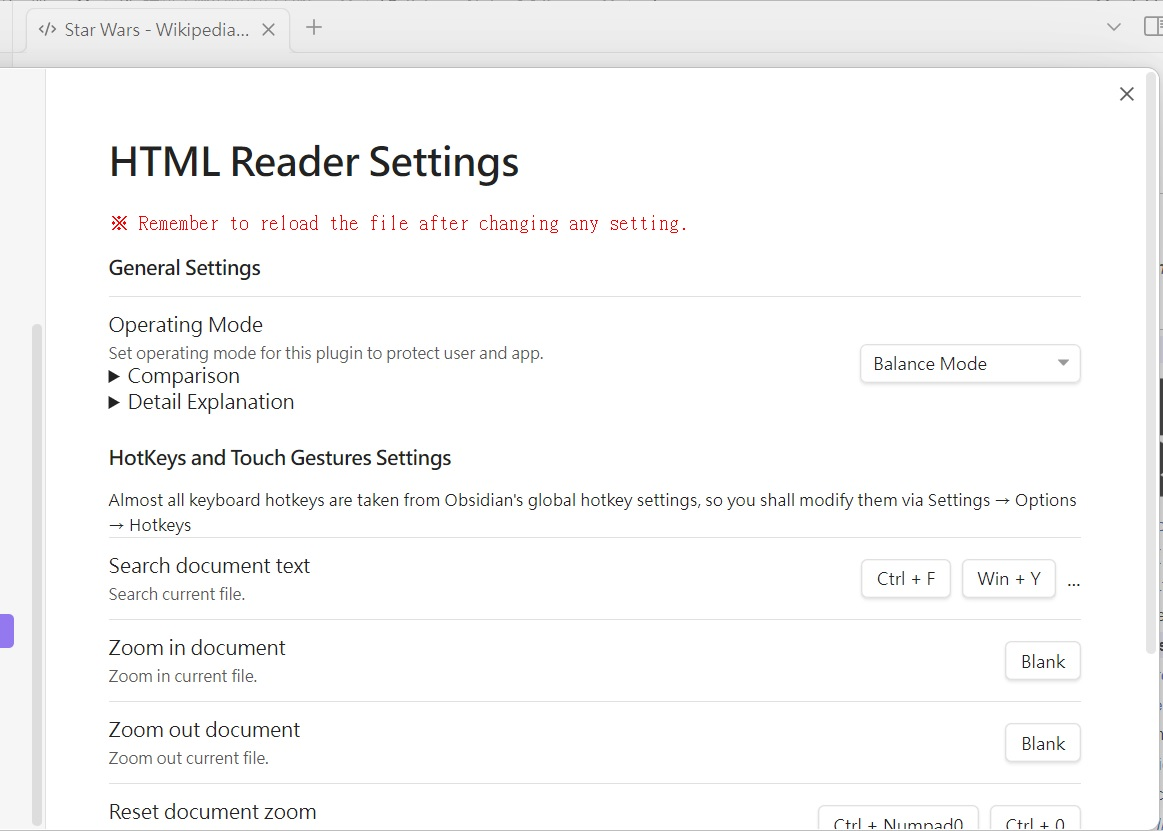
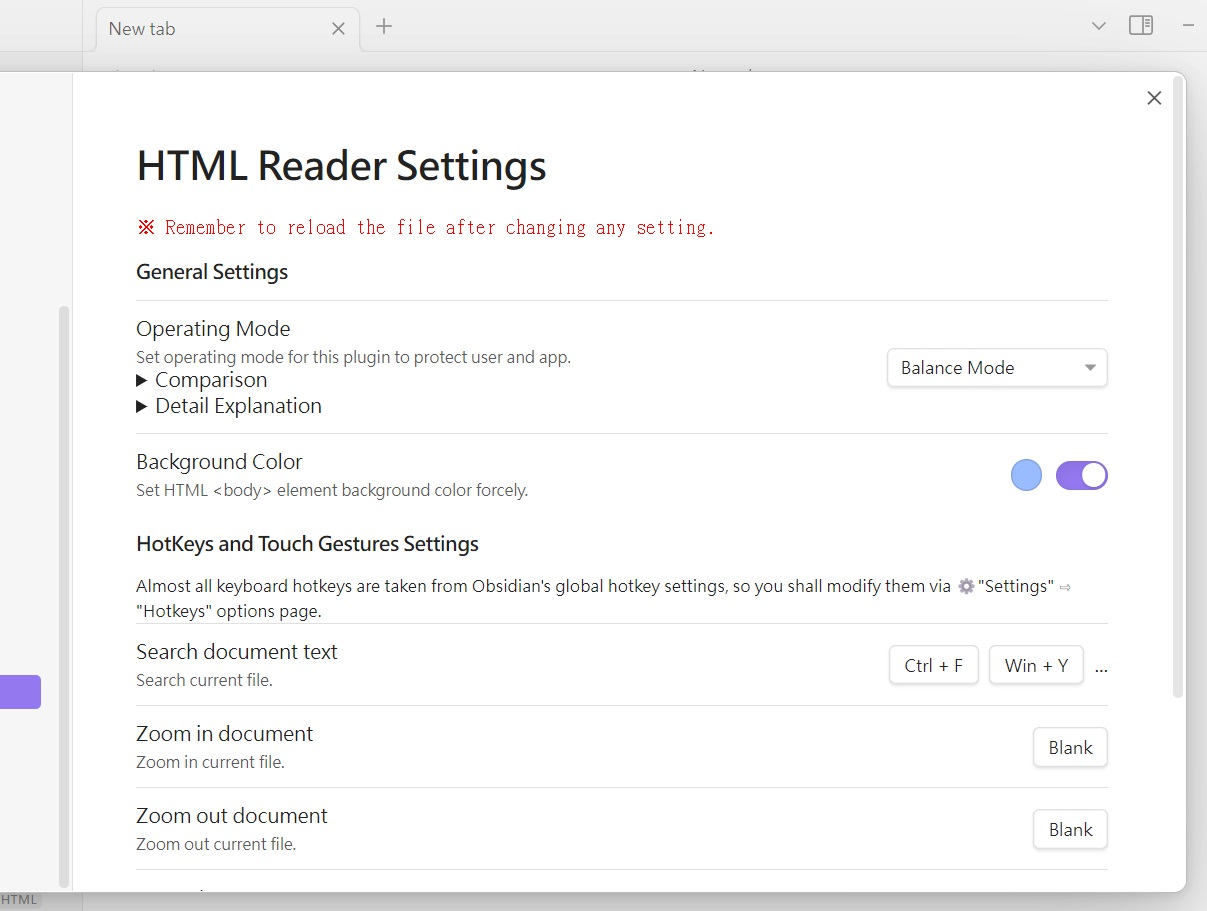
Version 1.0.10 1. Add set background color forcely option. (#12)

diff --git a/src/HtmlPluginSettings.ts b/src/HtmlPluginSettings.ts
@@ -3,12 +3,16 @@ import HtmlPlugin from "./HtmlPlugin";
 import { HtmlPluginOpMode, OP_MODE_INFO_DATA, OP_MODE_INFO_HTML } from "./HtmlPluginOpMode";
 
 export interface HtmlPluginSettings {
+	bgColorEnabled: boolean;
+	bgColor: string; // Hex strings are 6-digit hash-prefixed rgb strings in lowercase form.
 	opMode: HtmlPluginOpMode;
 	zoomByWheelAndGesture: boolean;
 	zoomValue: number;
 }
 
 export const DEFAULT_SETTINGS: HtmlPluginSettings = {
+	bgColorEnabled: false,
+	bgColor: "#ffffff",
 	opMode: HtmlPluginOpMode.Balance,
 	zoomByWheelAndGesture: true,
 	zoomValue: 1.0,
@@ -32,9 +36,10 @@ export class HtmlSettingTab extends PluginSettingTab {
 		containerEl.createEl('pre', { text: '※ Remember to reload the file after changing any setting.'})
 						.setAttribute('style', 'color:red');
 			
-		// ----- General Settings ----
+		// ----- General Settings -----
 		containerEl.createEl('h2', { text: 'General Settings' });
 
+		// ----- General Settings: Operating Mode -----
 		const opModeSetting = new Setting(containerEl);
 		opModeSetting
 			.setName("Operating Mode")
@@ -55,7 +60,29 @@ export class HtmlSettingTab extends PluginSettingTab {
 		
 		opModeSetting.infoEl.appendChild( this.opModeInfoFrag.cloneNode(true) );
 		
-		// ----- HotKeys and Touch Gestures Settings ----
+		// ----- General Settings: Background Color -----
+		const bgColorSetting = new Setting(containerEl);
+		bgColorSetting
+			.setName("Background Color")
+			.setDesc("Set HTML <body> element background color forcely.")
+			.addColorPicker((picker) => {
+				picker
+					.setValue(this.plugin.settings.bgColor)
+					.onChange( async (newColor: string) => {
+						this.plugin.settings.bgColor = newColor;
+						await this.plugin.saveSettings();
+					});
+			})
+			.addToggle( (toggle) => {
+				toggle
+					.setValue(this.plugin.settings.bgColorEnabled)
+					.onChange( async (enabled: boolean) => {
+						this.plugin.settings.bgColorEnabled = enabled;
+						await this.plugin.saveSettings();
+					});
+			});
+		
+		// ----- HotKeys and Touch Gestures Settings -----
 		containerEl.createEl('h2', { text: 'HotKeys and Touch Gestures Settings' });
 		containerEl.createEl('small', { text: `Almost all keyboard hotkeys are taken from Obsidian's global hotkey settings, so you shall modify them via ⚙"Settings" ⇨ "Hotkeys" options page.` });
 		
@@ -67,7 +94,7 @@ export class HtmlSettingTab extends PluginSettingTab {
 			.addToggle( (toggle) => {
 				toggle
 					.setValue(this.plugin.settings.zoomByWheelAndGesture)
-					.onChange( async (enabled) => {
+					.onChange( async (enabled: boolean) => {
 						this.plugin.settings.zoomByWheelAndGesture = enabled;
 						await this.plugin.saveSettings();
 					});

diff --git a/src/HtmlView.ts b/src/HtmlView.ts
@@ -371,6 +371,11 @@ async function modifyAnchorTarget( doc: HTMLDocument ): Promise<void> {
 async function restoreStateBySettings( doc: HTMLDocument, settings: HtmlPluginSettings ): Promise<void> {
 	doc.body.style.transformOrigin = "left top"; // CSS transform-origin
 	doc.body.style.transform = `scale(${settings.zoomValue})`;
+	
+	if( settings.bgColorEnabled ) {
+		doc.body.setAttribute( "bgColor", settings.bgColor );
+		doc.body.style.backgroundColor = settings.bgColor;
+	}
 }
 
 function isUnselectableElement( elm: HTMLElement ): boolean {
@@ -435,7 +440,7 @@ function checkHotkeyModifier( modifiers: Modifier[], evt: KeyboardEvent | MouseE
 				if( !evt.altKey ) // This key value is also used for the Apple Option key. 
 					return false;
 				break;
-			case 'Mod': // Mod = Cmd on MacOS(iOS?) and Ctrl on other OS
+			case 'Mod': // Mod = Cmd on MacOS/iOS/iPadOS and Ctrl on other OS
 				if( isAppleSys ? !evt.metaKey : !evt.ctrlKey)
 					return false;
 				break;
@@ -756,7 +761,7 @@ async function buildUserInteractiveFacilities( mainView: HTMLElement ): Promise<
 		clearAllMarks( false );
 		hltAllNodes = preAllNodes;
 		
-		searchBar.style.display = 'none'; // hide Search box
+		searchBar.style.display = 'none'; // hide Search bar
 		isSearchBarVisible = false;
 		iframe.contentWindow.focus();
 	} );

diff --git a/README.md b/README.md
@@ -46,7 +46,7 @@ This is a plugin for Obsidian (https://obsidian.md). Can open document with `.ht
 
 Set Operating Mode for this plugin to protect user and app.
 
-#### Comparsion
+##### Comparsion
 
 |                          | Images | Styles  | Scripting             | DSD<sup>*</sup>  | CSP<sup>#</sup> | HTML Sanitization | Isolated |
 |         ---:             | :---:  | :---:   | :---:                 | :---:            | :---: | :---: | :---: |
@@ -63,7 +63,7 @@ Set Operating Mode for this plugin to protect user and app.
 [3]: The external script files may not executable due to Obsidian's limitation. <br />
 
 <details>
-<summary><h4>Detail Explanation</h4></summary>
+<summary><h5>Detail Explanation</h5></summary>
 
 1. **Text Mode** - Highly recommended for the files came from untrusted source! This mode almost sanitized all visual effects, script codes, and styles out. eanwhile, it keeps text parts for reading the content of HTML files with HTML layout elements.
 2. **High Restricted Mode** - This mode recommended for the user who wants more security. It would keep custom elements but sanitize unsafe HTML elements out, as well as unsafe attributes and their contents. The external image sources would be blocked by CSP, and the images are only available from the HTML files themselves.
@@ -82,7 +82,7 @@ Set Operating Mode for this plugin to protect user and app.
 
 </details>
 <details>
-<summary><h4>Terms Explanation</h4></summary>
+<summary><h5>Terms Explanation</h5></summary>
 	
 This section would try to explain some terms used by Operating Mode more detail. You can ignore some terms without bold font face (they are technical terms).
 
@@ -98,6 +98,10 @@ This section would try to explain some terms used by Operating Mode more detail.
 
 <br />
 
+#### Background Color
+Set HTML &lt;body&gt; element background color forcely.
+
+
 ### Hotkeys and touch gestures settings
 Almost all keyboard hotkeys are taken from Obsidian's global hotkey settings, so you shall modify them via ⚙"Settings" ⇨ "Hotkeys" options page. <br>
 That means this plugin does not design any new configuration interface for keyboard hotkeys. And it just show the first two settings of corresponding hotkeys with readonly mode.
@@ -111,7 +115,7 @@ Zoom out current file.
 #### Reset document zoom
 Reset current file zoom.
 #### Quick document zoom in and out
-Zoom the document using Ctrl + Wheel (zoom in: ↑, zoom out: ↓), or using the trackpad/touch screen/touch panel by two-finger pinch-zoom gesture (zoom in: ← →, zoom out: → ←).
+Zoom the document using Ctrl + Wheel (zoom in: ↑, zoom out: ↓), or using the trackpad/touch screen/touch panel two-finger pinch-zoom gesture (zoom in: ← →, zoom out: → ←).
 
 
 ## More options
